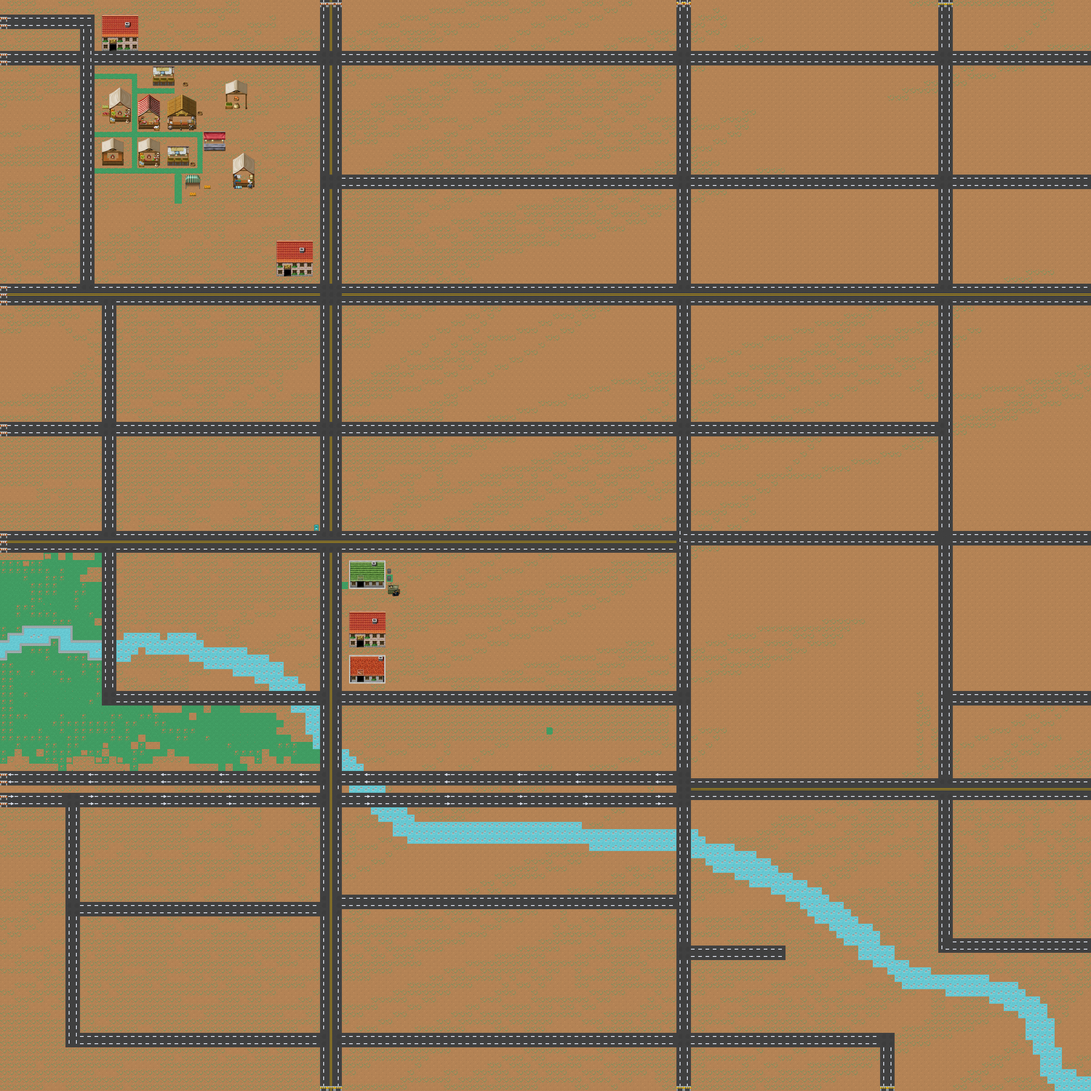
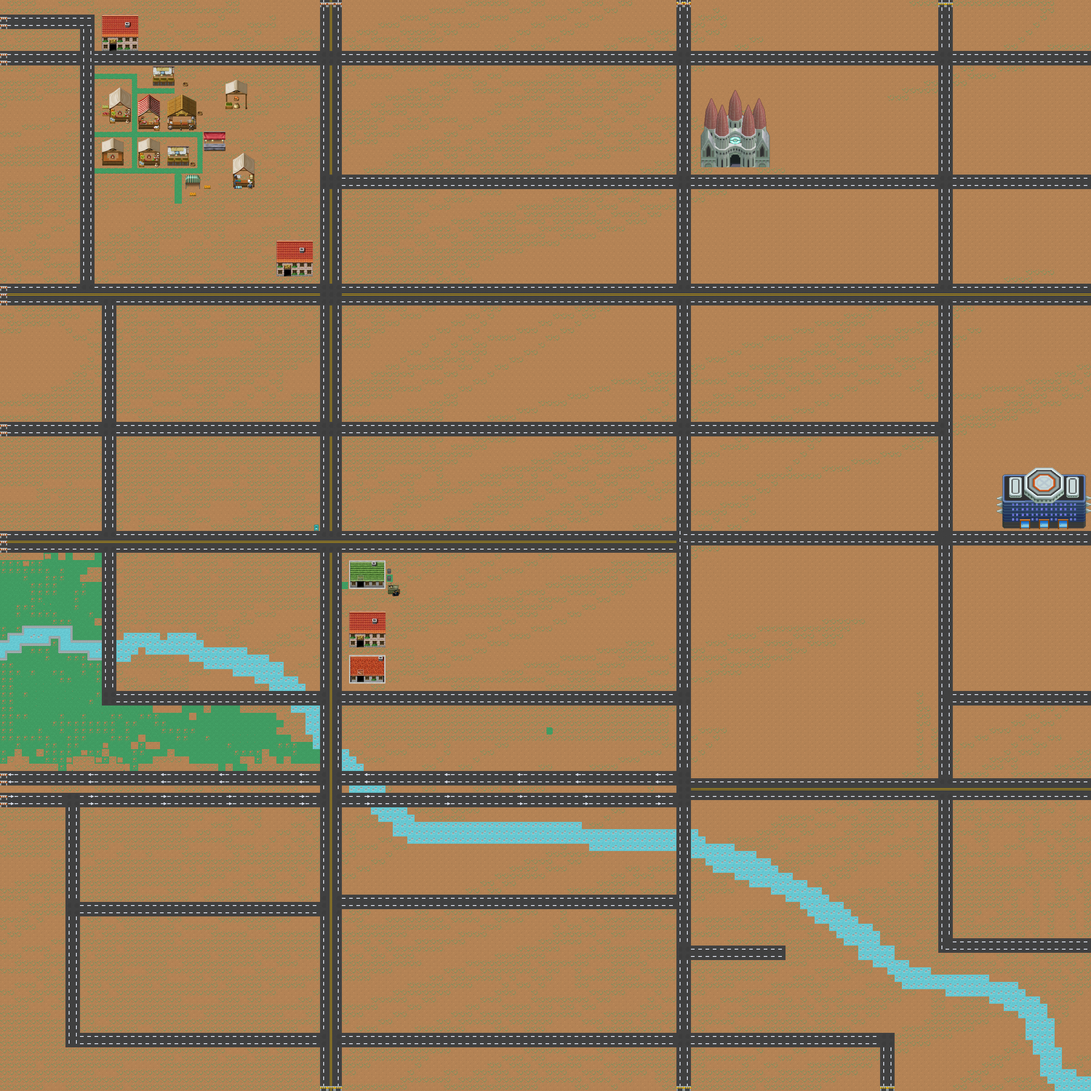
asset update;

Changed region(s): [[0.9062, 0.4062, 1.0, 0.5], [0.625, 0.0938, 0.7188, 0.1562]]

diff --git a/resources/src/maps/buildings1.tsx b/resources/src/maps/buildings1.tsx
@@ -1,0 +1,5 @@
+<?xml version="1.0" encoding="UTF-8"?>
+<tileset version="1.4" tiledversion="1.4.1" name="buildings1" tilewidth="16" tileheight="16" tilecount="3025" columns="55">
+ <grid orientation="orthogonal" width="32" height="32"/>
+ <image source="assets/buildings1.png" trans="000000" width="894" height="894"/>
+</tileset>
